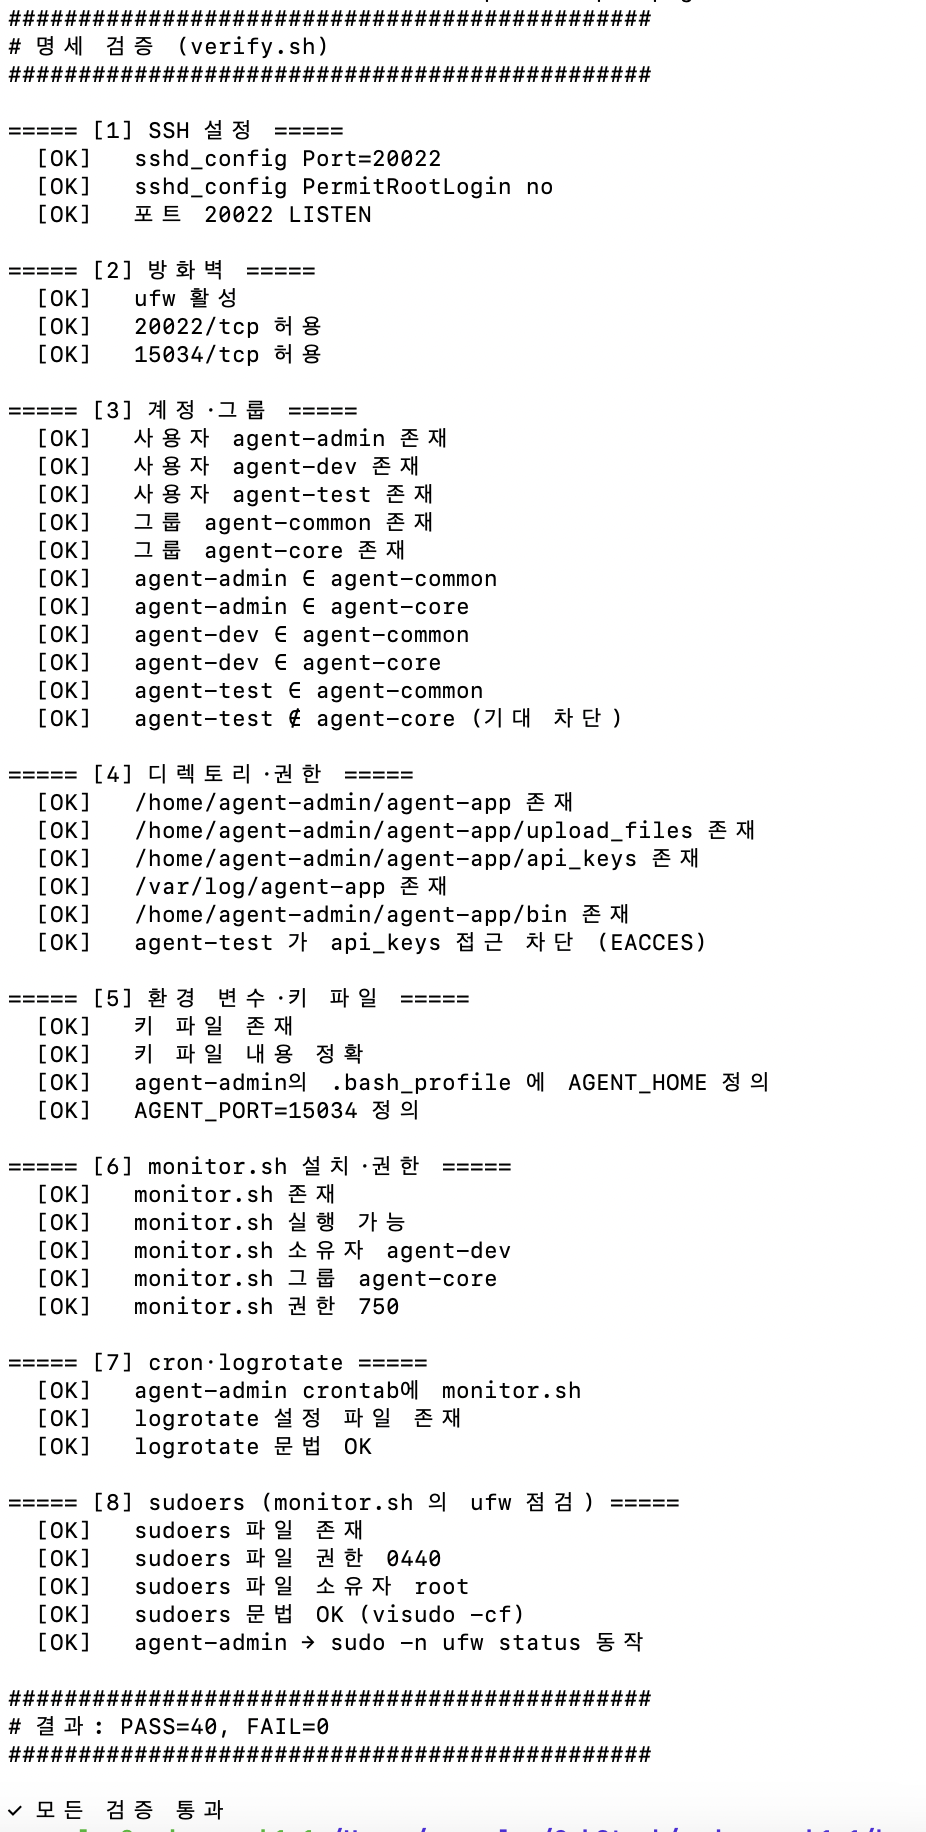
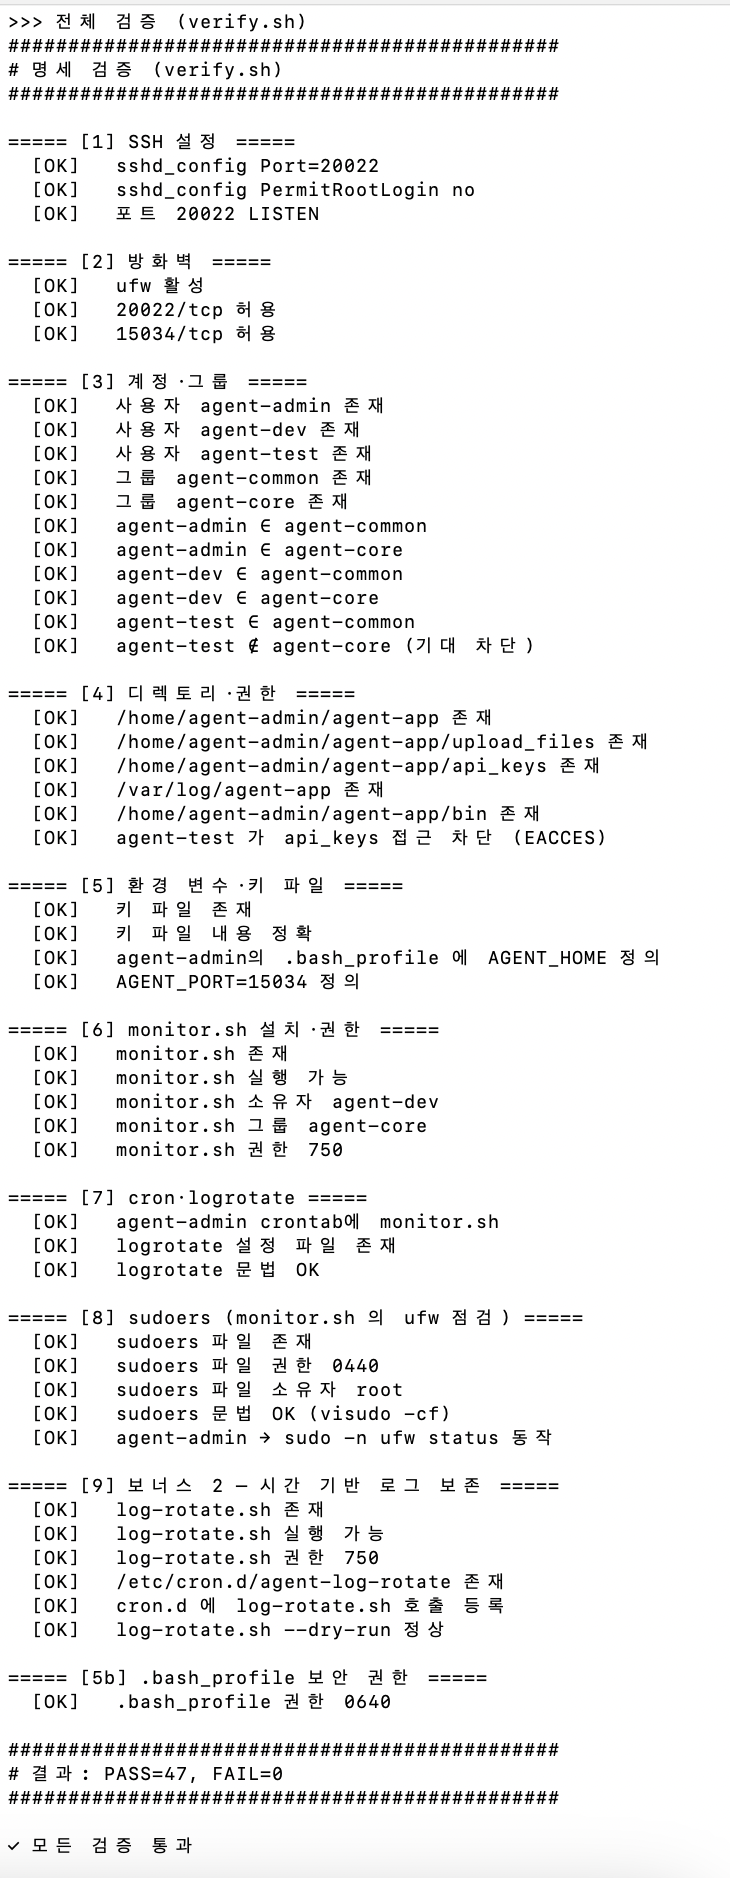
docs(evidence): 보너스 2 dry-run + verify-all-pass 47/47 갱신
- evidence/11-log-rotate-dryrun.png 신규 (보너스 2 시연)
- evidence/verify-all-pass.png 47/47 PASS 로 갱신 (이전 40)
- 수행내역서 §보너스2 dry-run 출력 임베드 + 확인 포인트
- 종합검증 증거 파일 표 갱신 (47 + 11)

diff --git a/docs/수행내역서.md b/docs/수행내역서.md
@@ -521,23 +521,18 @@ MAILTO=""
 sudo /home/agent-admin/agent-app/bin/log-rotate.sh --dry-run
 ```
 
-기대 출력:
-```
-===== log-rotate.sh — 2026-05-18 09:30:00 =====
-[INFO] DRY RUN 모드 — 실제 변경 없음
+### 실제 dry-run 출력
 
-[1/2] 7일+ 경과 로그 압축·아카이브 이동
-[INFO]   대상 파일 0개 — 압축 단계 skip       ← 명세 "0개 안전 처리" 충족
+![log-rotate.sh --dry-run 정상 동작](../evidence/11-log-rotate-dryrun.png)
 
-[2/2] 30일+ 경과 아카이브 삭제
-[INFO]   대상 파일 0개 — 삭제 단계 skip
+확인 포인트:
+- `[INFO] DRY RUN 모드 — 실제 변경 없음` — 안전 검증 (실제 압축·삭제 안 함)
+- `[INFO] DRY: mkdir -p /var/log/monitor/agent-app/archive` — archive 디렉토리 미존재 시 자동 생성 의도 (실제 실행 시 즉시 mkdir, dry-run 이라 안내만)
+- `[1/2] 7일+ 경과 ... 대상 파일 0개 — 압축 단계 skip` — 명세 *"대상 파일 0개 안전 처리"* 충족
+- `[2/2] 30일+ 경과 ... 대상 파일 0개 — 삭제 단계 skip` — 동일 안전 처리
+- `종합 결과: 압축 0, 삭제 0, 경고 0, 에러 0` — 등급별 카운트 정상
 
-===== 종합 결과 =====
-  압축·이동 : 0개
-  삭제      : 0개
-  경고      : 0건
-  에러      : 0건
-```
+dry-run 통과 = 스크립트의 *syntax·로직·예외 처리* 가 모두 정상이라는 증거. 매일 03:00 cron.d 실행 시 실제 7일+ 경과 로그가 있으면 자동 압축·이동·삭제.
 
 ### verify.sh 자동 검증 (6 check 추가)
 
@@ -727,7 +722,8 @@ fi
 세 번 모두 **"코드 작성자의 환경 가정 ↔ 실제 배포 환경 어긋남"** 패턴. 동일한 진단 흐름 (silent fail 또는 false 결과 → 원인 추적 → setup 보강) 으로 해결. 명세 *"트러블슈팅 설명 능력"* 자기평가 항목 충실.
 
 ### 증거 파일
-- `evidence/verify-all-pass.png` (40 check 전체 통과 한 화면)
+- `evidence/verify-all-pass.png` — **47/47 PASS** 한 화면 (10 카테고리 모두)
+- `evidence/11-log-rotate-dryrun.png` — 보너스 2 dry-run 정상 동작
 
 ---
 